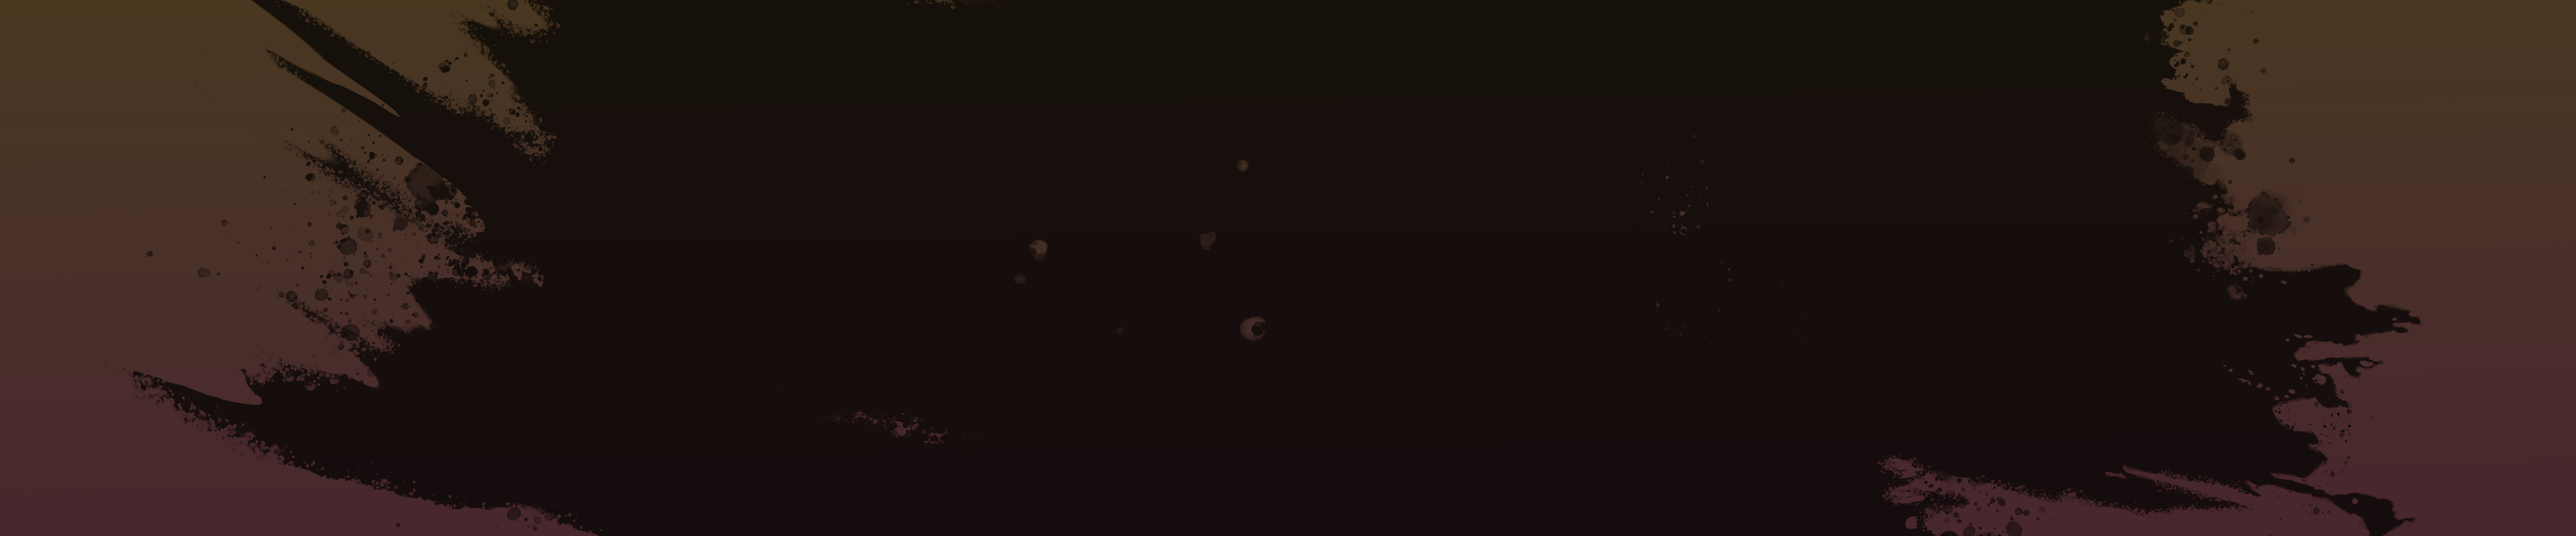
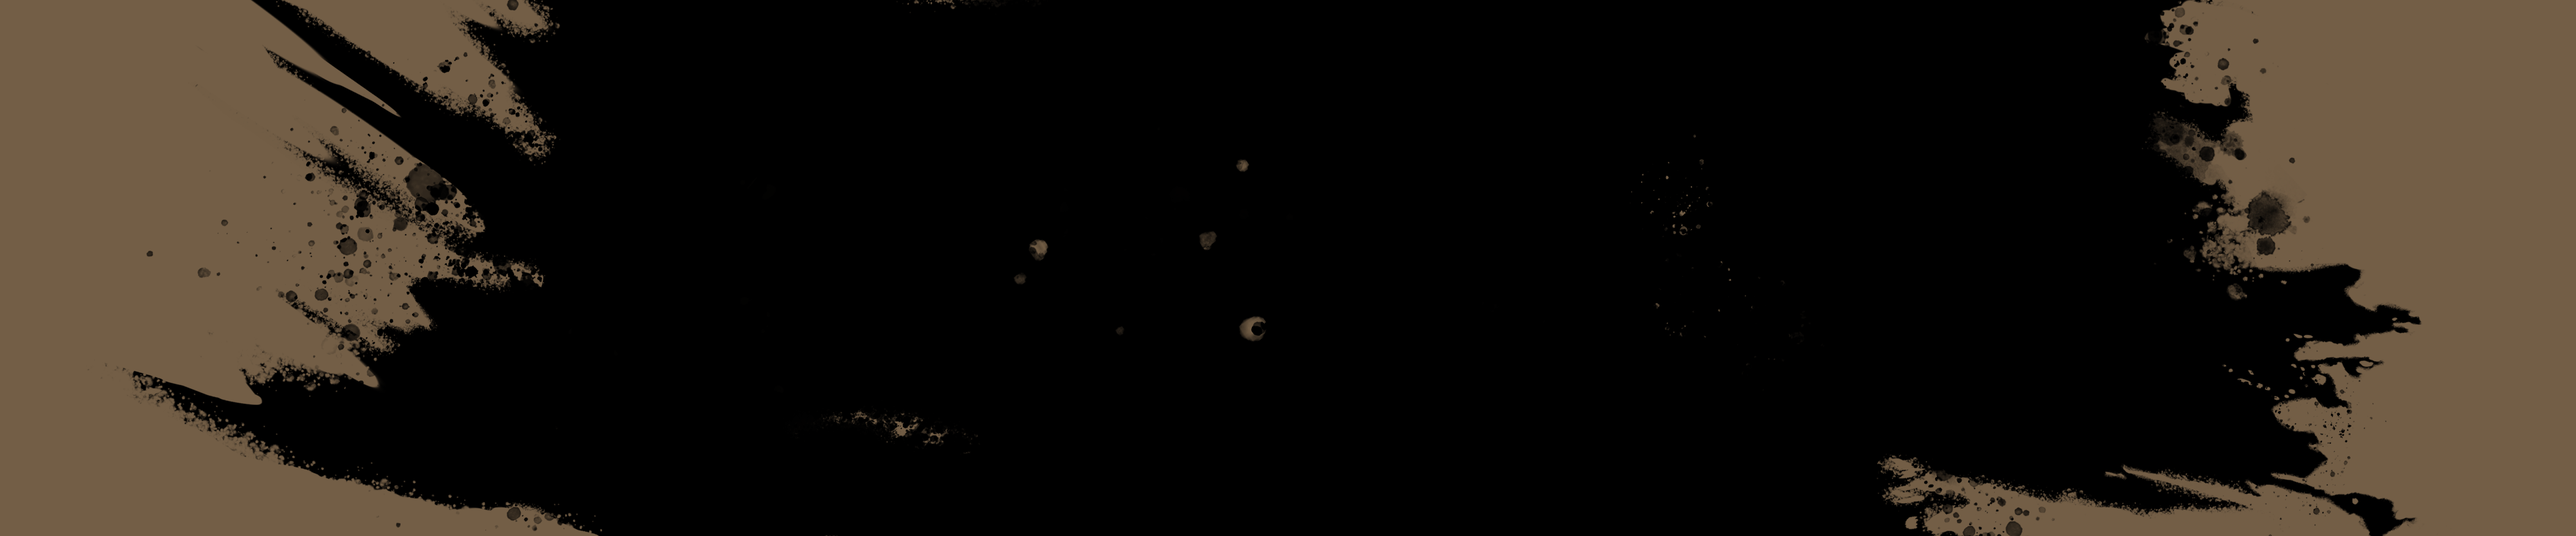
251104 -3 수정

Changed region(s): [[0.7185, 0.0, 1.0, 1.0], [0.0, 0.0, 0.2499, 1.0], [0.3436, 0.7961, 0.3749, 0.8268]]

diff --git a/pages/reward/reward_style.css b/pages/reward/reward_style.css
@@ -224,7 +224,6 @@ main .inner {
 
 .vip_tiers .list>ul>li>ul.on {
     border: 1px solid var(--grey_de);
-
     box-shadow: 4px 4px 10px rgba(27, 75, 5, 0.1);
 }
 
@@ -289,7 +288,6 @@ main .inner {
     height: 100%;
     overflow: hidden;
     z-index: -1;
-
     background-color: var(--bg_black);
 }
 
@@ -348,7 +346,7 @@ main .inner {
     flex-direction: column;
     justify-content: center;
     align-items: center;
-    min-height: 1300px;
+    min-height: 1000px;
     padding: 120px 0;
 
 }
@@ -468,7 +466,7 @@ main .inner {
     background-color: #000000;
 }
 
-.redeem_for_products::before {
+/* .redeem_for_products::before {
     content: '';
     position: absolute;
     top: 0;
@@ -482,7 +480,7 @@ main .inner {
 
 .redeem_for_products.animate::before {
     animation: fadeInOut 3s ease-out forwards;
-}
+} */
 
 .ways_to_earn {
     position: relative;
@@ -490,7 +488,7 @@ main .inner {
     background-color: #000000;
 }
 
-.ways_to_earn::before {
+/* .ways_to_earn::before {
     content: '';
     position: absolute;
     top: 0;
@@ -514,7 +512,7 @@ main .inner {
     100% {
         opacity: 0;
     }
-}
+} */
 
 .redeem_for_products .box1 {
     background-image: url(../../asset/img/reward/img_Redeem_01.png);
@@ -607,7 +605,8 @@ main .inner {
     left: 0;
     width: 100%;
     height: 100%;
-    background-image: linear-gradient(to top, var(--redbean), var(--propolis));
+    /* background-image: linear-gradient(to top, var(--redbean), var(--propolis)); */
+    background-color: #b59016;
     z-index: 0;
     transition: transform 0.3s ease, opacity 0.3s ease;
     opacity: 0;
@@ -615,20 +614,20 @@ main .inner {
 }
 
 .box:hover::after {
-    opacity: 0.4;
+    opacity: 0.8;
 }
 
 .friend {
     width: 100%;
-    height: 400px;
-    color: var(--white_f0);
+    height: 300px;
+    color: var(--bg_black);
     text-align: center;
     display: flex;
     justify-content: center;
     align-items: center;
     gap: 20px;
     flex-direction: column;
-    background-image: url(../../asset/img/reward/reward_banner7.png);
+    background-image: url(../../asset/img/reward/reward_banner10.png);
     background-size: cover;
     background-repeat: no-repeat;
     background-position: center center;

diff --git a/pages/reward/reward_media.css b/pages/reward/reward_media.css
@@ -161,11 +161,11 @@
         display: block;
     }
 
-    .friend {
+/*     .friend {
         background-color: #0b0707;
         background-image: none;
     }
-
+ */
     .friend h2 {
         font-size: 1.8rem;
 
